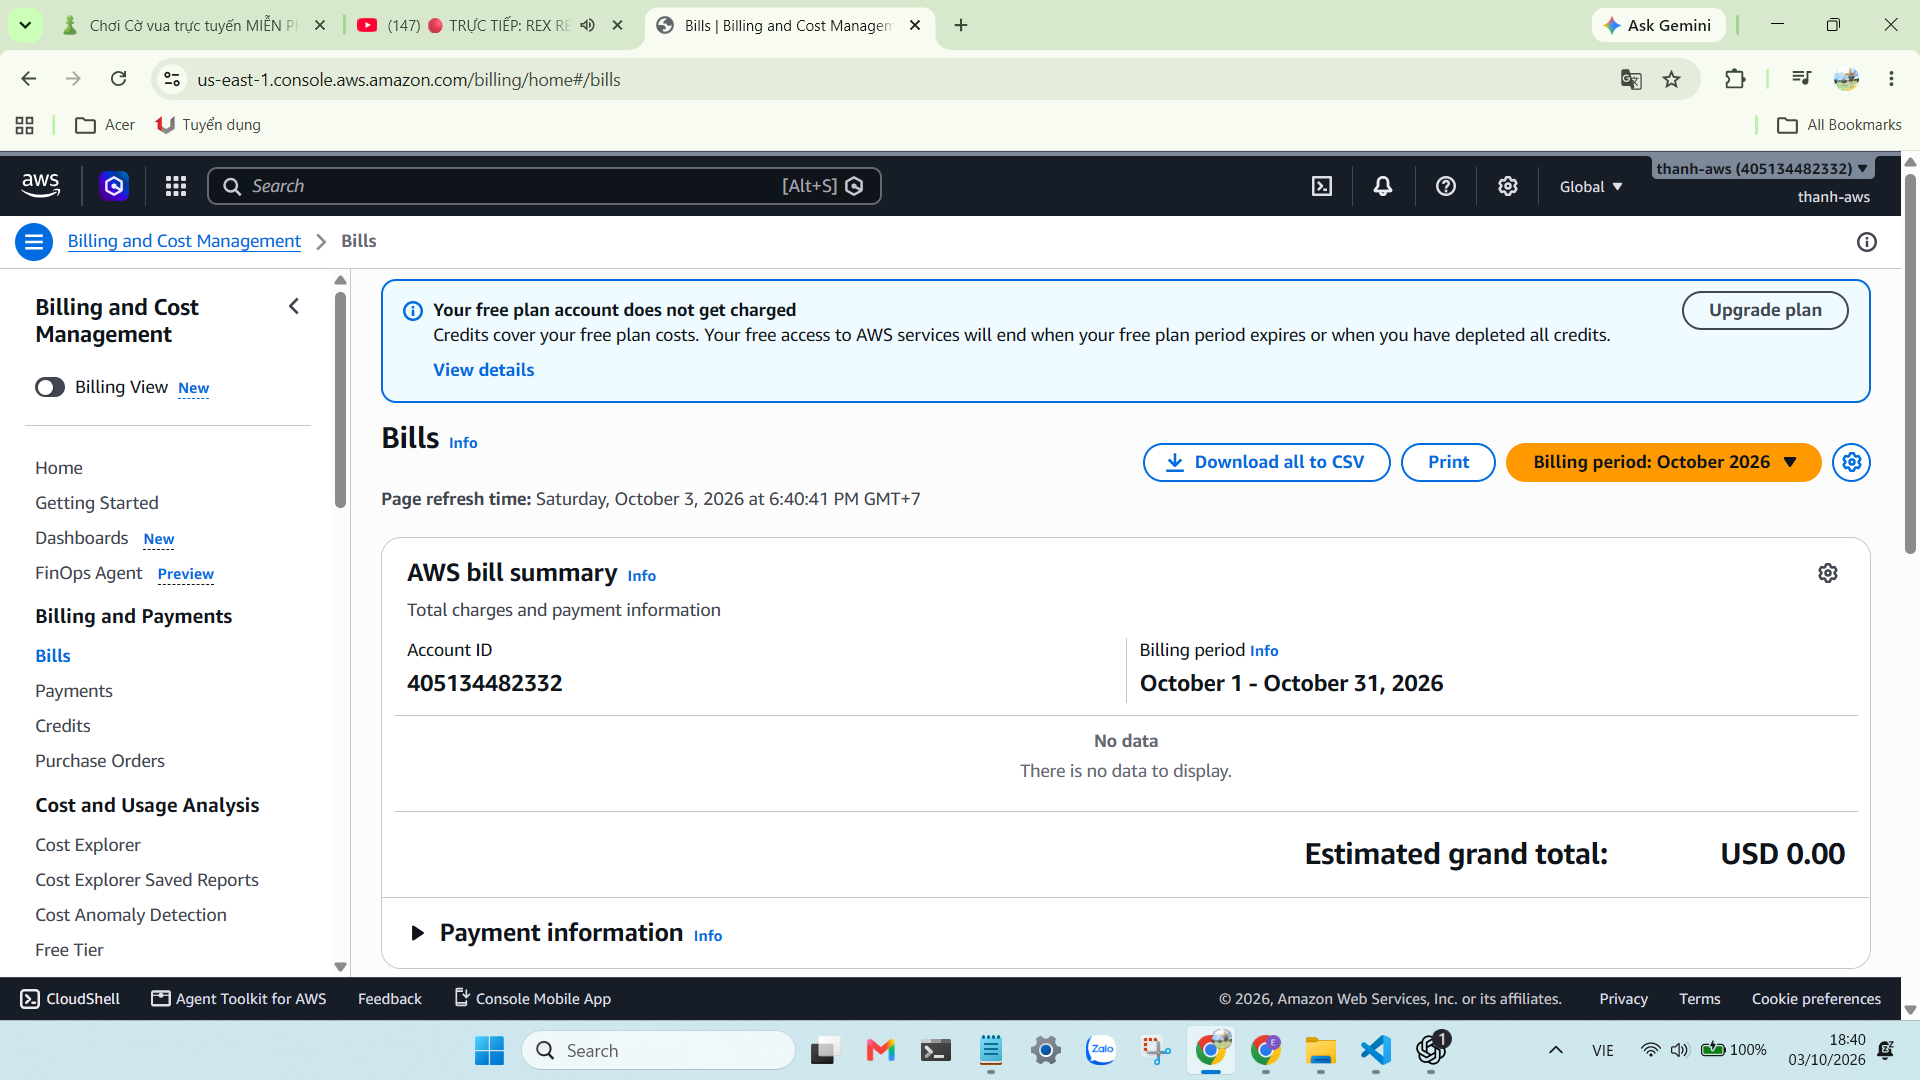
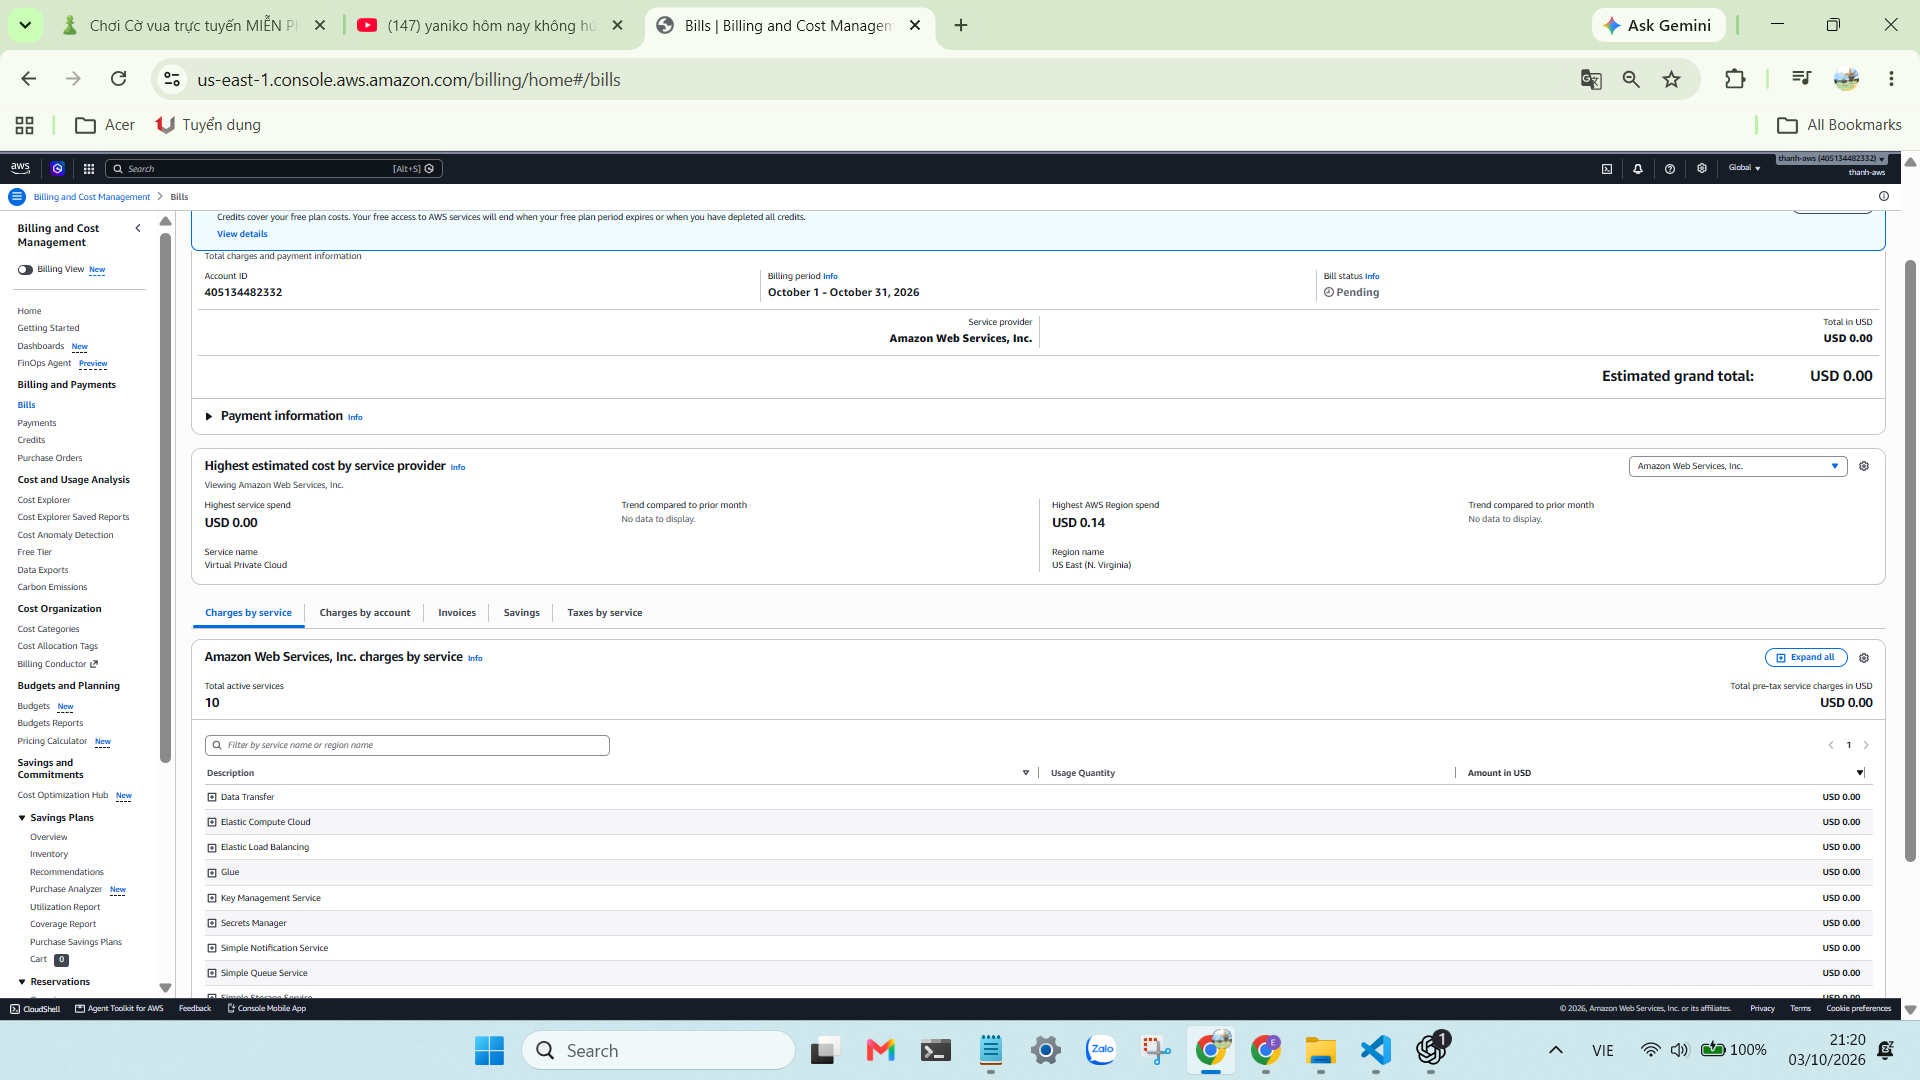
Update AWS billing evidence and report

diff --git a/submission/report.md b/submission/report.md
@@ -1,6 +1,6 @@
 # Báo cáo Lab 16 — AWS CPU LightGBM
 
-1. Tôi triển khai bài lab trên AWS tại region `us-east-1`, sử dụng Compute Node `t3.micro` (2 vCPU, khoảng 1 GiB RAM). Source dựa trên commit `55539f6`, với `cpu_instance_type` được điều chỉnh từ `t3.medium` xuống `t3.micro`.(bị lỗi với t3.medium, đã hỏi lab coach và đồng ý cho đổi)
+1. Tôi triển khai bài lab trên AWS tại region `us-east-1`, sử dụng Compute Node `t3.micro` (2 vCPU, khoảng 1 GiB RAM). Source dựa trên commit `554e983`, với `cpu_instance_type` được điều chỉnh từ `t3.medium` xuống `t3.micro` (bị lỗi với `t3.medium`, đã hỏi Lab Coach và được đồng ý cho đổi).
 2. Dataset Credit Card Fraud Detection có 284.807 dòng, trong đó 492 dòng thuộc lớp fraud. Dữ liệu được chia theo tỷ lệ 60% train, 20% validation và 20% test, tương ứng 170.883/56.962/56.962 dòng, dùng seed 16 và stratify theo nhãn `Class`.
 3. Lần đo được ghi lúc 18:32 ngày 03/10/2026 (GMT+7): thời gian đọc dữ liệu là 2,400 giây, thời gian huấn luyện là 3,524 giây và LightGBM dừng sớm tại iteration 68.
 4. Trên tập test, mô hình đạt AUC 0,976848; Accuracy 0,999508; F1 0,847826; Precision 0,906977 và Recall 0,795918. AUC được tính từ xác suất dự đoán, còn các chỉ số phân loại dùng ngưỡng 0,5.
